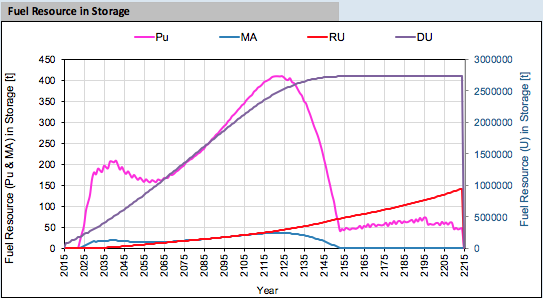
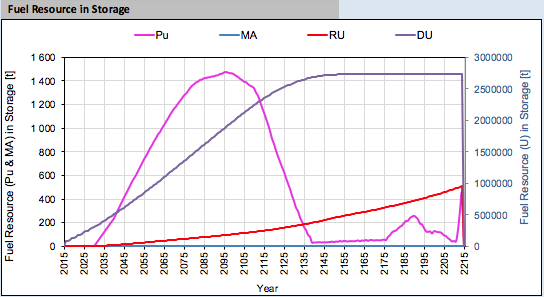
change the Storage composition img to the correct one update the test accordingly, add some more detailled explanation

Changed region(s): [[0.0, 0.0, 1.0, 1.0], [0.0, 0.2424, 0.0295, 0.9091]]

diff --git a/EG23.tex b/EG23.tex
@@ -275,10 +275,7 @@ reprocessing as specified in the reporting requirements,
 distinction. One dedicated to cooling, with a residence time of 84 months,
 corresponds to the output quantity ``Used Fuel in Cooling Storage'', and
 one dedicated to storage until reprocessing with no minimum residence time
-corresponds to the output quantity ``UNF waiting for reprocessing'' and
-``Ressource in Storage''.
-Notable are subtle differences in what these two storage facilities data
-represent and their exact semantic meaning in the analysis spreadsheet.
+corresponds to the output quantity ``UNF waiting for reprocessing''.
 
 \subsection{Separation}
 
@@ -293,6 +290,13 @@ leading to eventual halting of spent fuel separations.
 As the separation output buffers are not limited, those separation facilities will
 reprocess all the used available fuel with a constant reprocessing rate.
 
+As the fuel fabrication facilities have a tuned deployement and capacities (for 10
+batchs of fuel), the output buffer of the speration facilities have been used as
+input for the ``Plutonium'' data fo the ``Fuel Ressource in storage''. The reprocessed
+uranium is sent after the sepration to a dedicateed storage used as input for the
+``Reprocessed Uranium'' data of ``Fuel Ressource in storage''. 
+Notable are subtle differences in what these two storage facilities data represent
+and their exact semantic meaning in the analysis spreadsheet.
 %% NOTE: if LWR separations output buffers are unlimited, it will never stop
 %% separating, right?
 
@@ -450,11 +454,11 @@ data after 2210.
     SFR.\label{fig:deployment_bis} }
 \end{figure}
 
-The other curves also appear as expected. The annual reprocessing rate
-corresponds directly to the deployments. Spent UOX reprocessing starts in 2010
-with 2000 MTHM/yr with another 1000 MTHM/yr added in 2030.  This reprocessing
-rate (UOX1 + UOX2) continues until the end of the production of used UOX (i.e.
-when all LWRs are decommissioned).
+The other curves also appear as expected. The annual reprocessing rate (Figure
+\ref{fig:reprocessing_1}) corresponds directly to the deployments. Spent UOX
+reprocessing starts in 2010 with 2000 MTHM/yr with another 1000 MTHM/yr added in
+2030. This reprocessing rate (UOX1 + UOX2) continues until the end of the
+production of used UOX (i.e. when all LWRs are decommissioned).
 
 \begin{figure}[h!]
     \centering
@@ -471,24 +475,22 @@ because it is directly reprocessed after cooling.
 
 \begin{figure}[h!]
     \centering
-    \subfigure[Used Fuel in Cooling Storage]   {\epsfig{figure=img/usedFuelInCooling,width=0.48\textwidth}}
-    \subfigure[Fuel waiting for Reprocessing]  {\epsfig{figure=img/UNFWaitingReprocessing_1,width=0.48\textwidth}}
+    \subfigure[Used Fuel in Cooling Storage\label{fig:UFCS_1}]  {\epsfig{figure=img/usedFuelInCooling,width=0.48\textwidth}}
+    \subfigure[Fuel waiting for Reprocessing\label{fig:FWR_1}]  {\epsfig{figure=img/UNFWaitingReprocessing_1,width=0.48\textwidth}}
     \caption{Used fuel in cooling and reprocessing.\label{fig:cool_reprocc} }
 \end{figure}
-
-As almost all SFR spent fuel are directly reprocessed after cooling, spent
-fuel in storage stops increasing when all the UOX fuel has been reprocessed.
-
-%% NOTE: I think this is referring to Fig 6.... if so, it needs more
-%% explanation and more careful wording.  It is important to carefully use the
-%% appropriate names for these results since the names are so similar.  This
-%% is about ``fuel resource'' in storage and not ``spent fuel'' in storage.
-%% Need to change figure captions as well for Fig 6 & 7.
+The amounts of the different fuels in ``Used Fuel in Cooling Storage'' (Figure
+\ref{fig:UFCS_1} follow, as expected, the discharge of the different reactors.
+As almost all SFR spent fuel are directly reprocessed after cooling (see Figure
+\ref{fig:FWR_1}), spent fuel in storage stops increasing when all the UOX fuel has
+been reprocessed. The accumulation of LWR used fuel in ``UNF Waiting for
+Reprocessing'' is induced by the limited constant reprocessing capacity for those
+fuel. 
 
 \begin{figure}[h!]
     \centering
     \includegraphics[width=0.62\textwidth]{img/FuelInStorage_1}
-    \caption{Storage Fuel composition.}
+    \caption{Fuel Ressource in Storage.}
     \label{fig:storagecompo_1}
 \end{figure}
 
@@ -498,45 +500,51 @@ appearance of MOX fuel in storage waiting for reprocessing. With the
 replacement of higher breeding ratio SFRs with lower breeding ratio reactors
 the MOX spent fuel generation rate decreases sufficiently for reprocessing to
 "catch-up".
+As shown in the Figure \ref{fig:storagecompo_1}, the reprocessing capacities of
+the LWR fuel is highier than the demand on plutonium to fabricate the MOX fuel,
+creating an accumulation of plutonium prior to 2100. After 2100, with the
+decommision of the LWR, less LWR used fuel is produces, allowing the reduction of
+the inventory of plutonium. In the other side, the reprocessing capacities of the
+FBR used fuel are well adapted to the demand: the plutonium storage experience a
+small accumulation just before the SFR switch of breeding ratio.
+ 
+%As shown in the Figures \ref{fig:FC_Z} and \ref{fig:WR_Z}, the quantity of
+%plutonium in storage follows the variation in the amount of MOX1 fuel in
+%storage.
 
-As shown in the Figures \ref{fig:FC_Z} and \ref{fig:WR_Z}, the quantity of
-plutonium in storage follows the variation in the amount of MOX1 fuel in
-storage.
-
-\begin{figure}[h!]
-    \centering
-    \subfigure[Storage Fuel composition (zoomed)\label{fig:FC_Z}]       {\epsfig{figure=img/FuelInStorage_1_zoom,width=0.48\textwidth}}
-    \subfigure[Fuel waiting for reprocessing (zoomed)\label{fig:WR_Z}]  {\epsfig{figure=img/UNFWaitingReprocessing_1_zoom,width=0.48\textwidth}}
-    \caption{Plutonium in storage.\label{fig:FC_WR_zoom} }
-\end{figure}
+%\begin{figure}[h!]
+%    \centering
+%    \subfigure[Fuel Ressource in Storage (zoomed)\label{fig:FC_Z}]       {\epsfig{figure=img/FuelInStorage_1_zoom,width=0.48\textwidth}}
+%    \subfigure[Fuel waiting for reprocessing (zoomed)\label{fig:WR_Z}]  {\epsfig{figure=img/UNFWaitingReprocessing_1_zoom,width=0.48\textwidth}}
+%    \caption{Plutonium in storage.\label{fig:FC_WR_zoom} }
+%\end{figure}
 
 \subsection{Case 2: On-demand Separations}
 
 The only differences in the results between the two cases can be seen in the
-behavior of the reprocessed fuel --- namely in the UNF fuel waiting for
-reprocessing and in the composition of material in storage.
+behavior of the reprocessed fuel --- namely in the ``UNF fuel waiting for
+reprocessing'' and in the ``Fuel Ressource in Storage''.
 
 \begin{figure}[h!]
     \centering
-    \subfigure[Annual Reprocessing Rate]       {\epsfig{figure=img/AnnualReprocessingRate_2,width=0.48\textwidth}}
-    \subfigure[Fuel waiting for reprocessing]  {\epsfig{figure=img/UNFWaitingReprocessing_2,width=0.48\textwidth}}
-    \subfigure[Storage Fuel composition]       {\epsfig{figure=img/FuelInStorage_2,width=0.48\textwidth}}
+    \subfigure[Annual Reprocessing Rate\label{fig:ARR_2}]   {\epsfig{figure=img/AnnualReprocessingRate_2,width=0.48\textwidth}}
+    \subfigure[Fuel waiting for reprocessing]               {\epsfig{figure=img/UNFWaitingReprocessing_2,width=0.48\textwidth}}
+    \subfigure[Fuel Ressource in Storage\label{fig:SFC_2}]  {\epsfig{figure=img/FuelInStorage_2,width=0.48\textwidth}}
     \caption{Ressources production and fuel loading.\label{fig:ARR_FWR_SFC_2} }
 \end{figure}
 
-Indeed, as seen in Figure 8a., the reprocessing follows the plutonium need of
-the SFR fuel fabrication. The UOX spent fuel only contains about only 1\% of
-plutonium while SFR spent fuel contains about 10\%, which explains the sudden
-decrease in the amount of fuel reprocessed around year 2110.  When switching
-to the higher plutonium content spent fuel, the separations facilities are
-able to produce an equivalent amount of fissile Pu while processing much less
-material from their spent fuel input inventories.
+Indeed, as seen in Figure \ref{fig:ARR_2}, the reprocessing follows more closely
+than in th case 1 the plutonium need of the SFR fuel fabrication. Indeed the
+accumulation of plutonium is limited at $\sim400~t$ (Figure \ref{fig:SFC_2}) versus $\sim1500~t$ in the
+first case. Nevertheless, one can still observe a large plutonium accumulation
+spike 2100 and 2145 which one should be able to avoid with a better reprocessing
+capacity deployement.
 
 Because of both the reprocessing priority and "on-demand" separations
 deployment, we observe more fuel waiting for reprocessing with a quick drop
 starting around year 2090 as stored up plutonium is used in the first wave of
-SFR deployments replacing aging LWRs.  We can also observe some of SFR fuel
-waiting for reprocessing, which decrease slowly, showing a well designed SFR
+SFR deployments replacing aging LWRs. We can also observe some of SFR fuel
+waiting for reprocessing, which decrease, showing a well designed SFR
 deployment schedule that reaches an comfortable equilibrium generating
 plutonium at the same rate it is being recycled.
 
